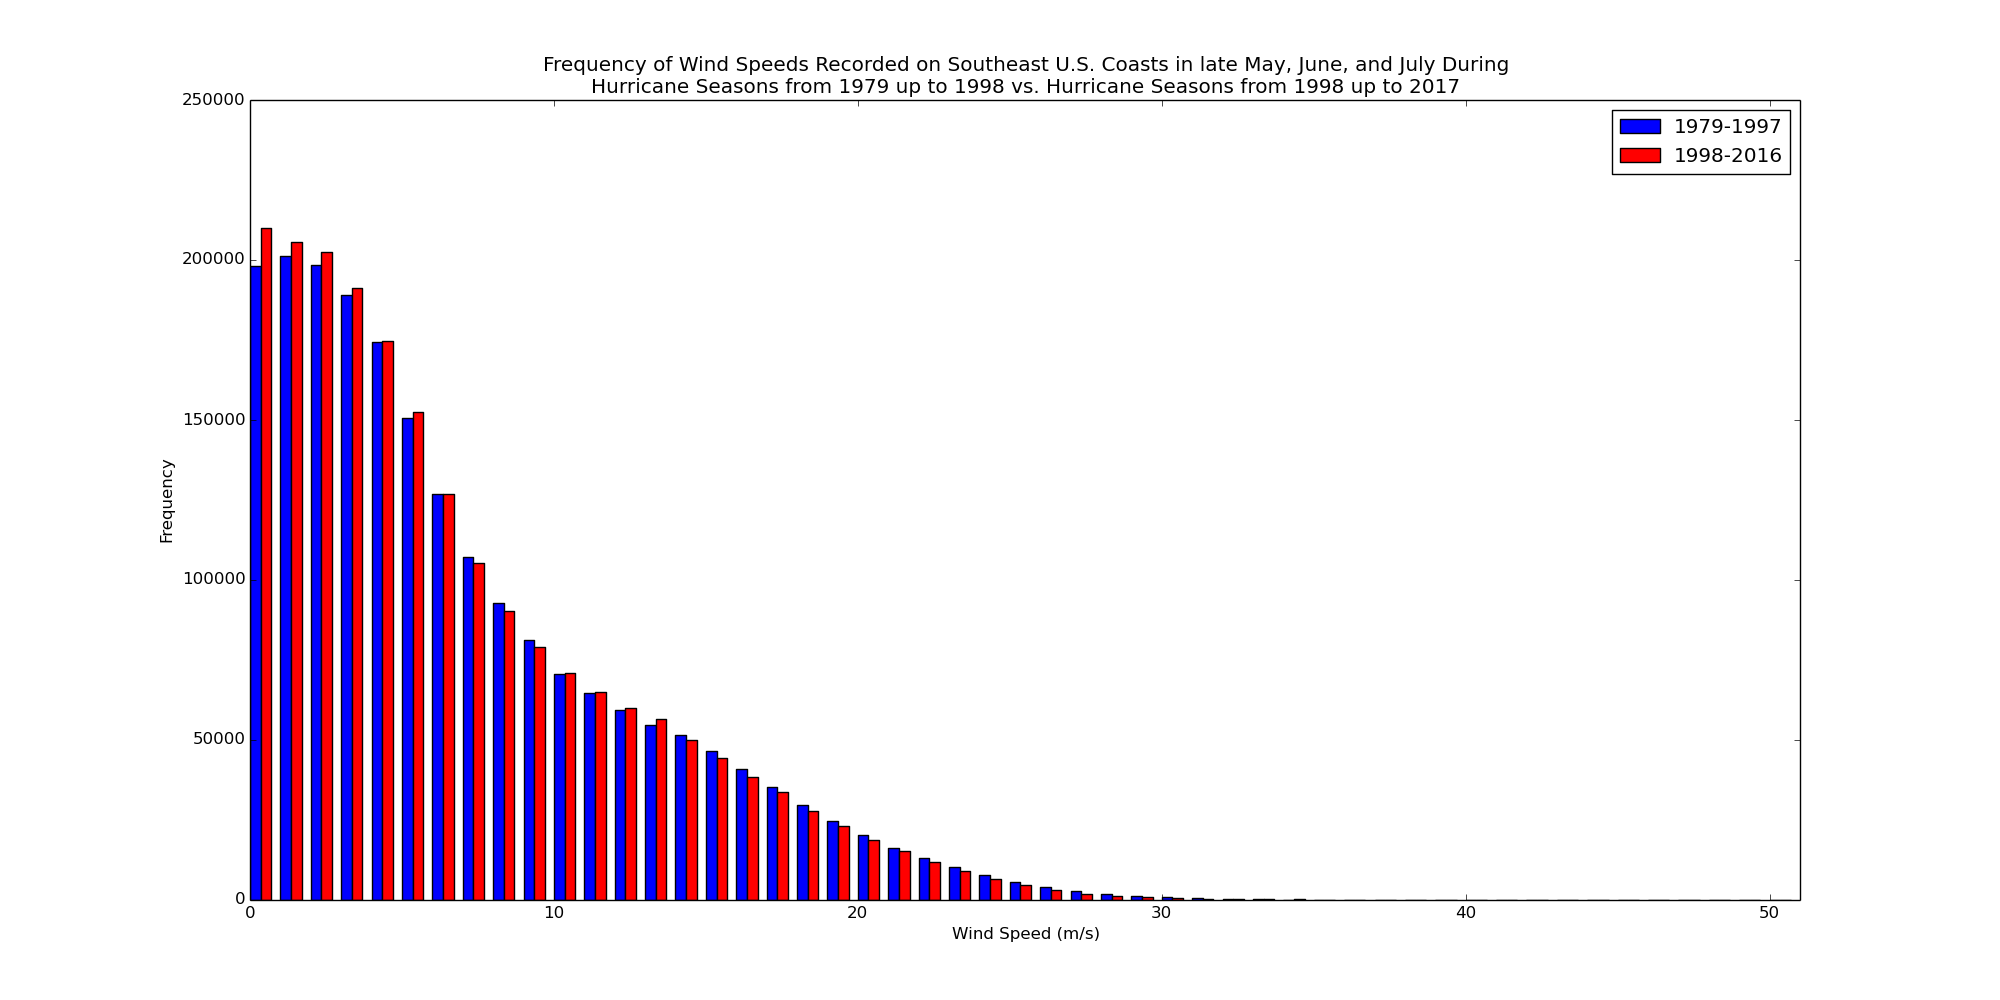
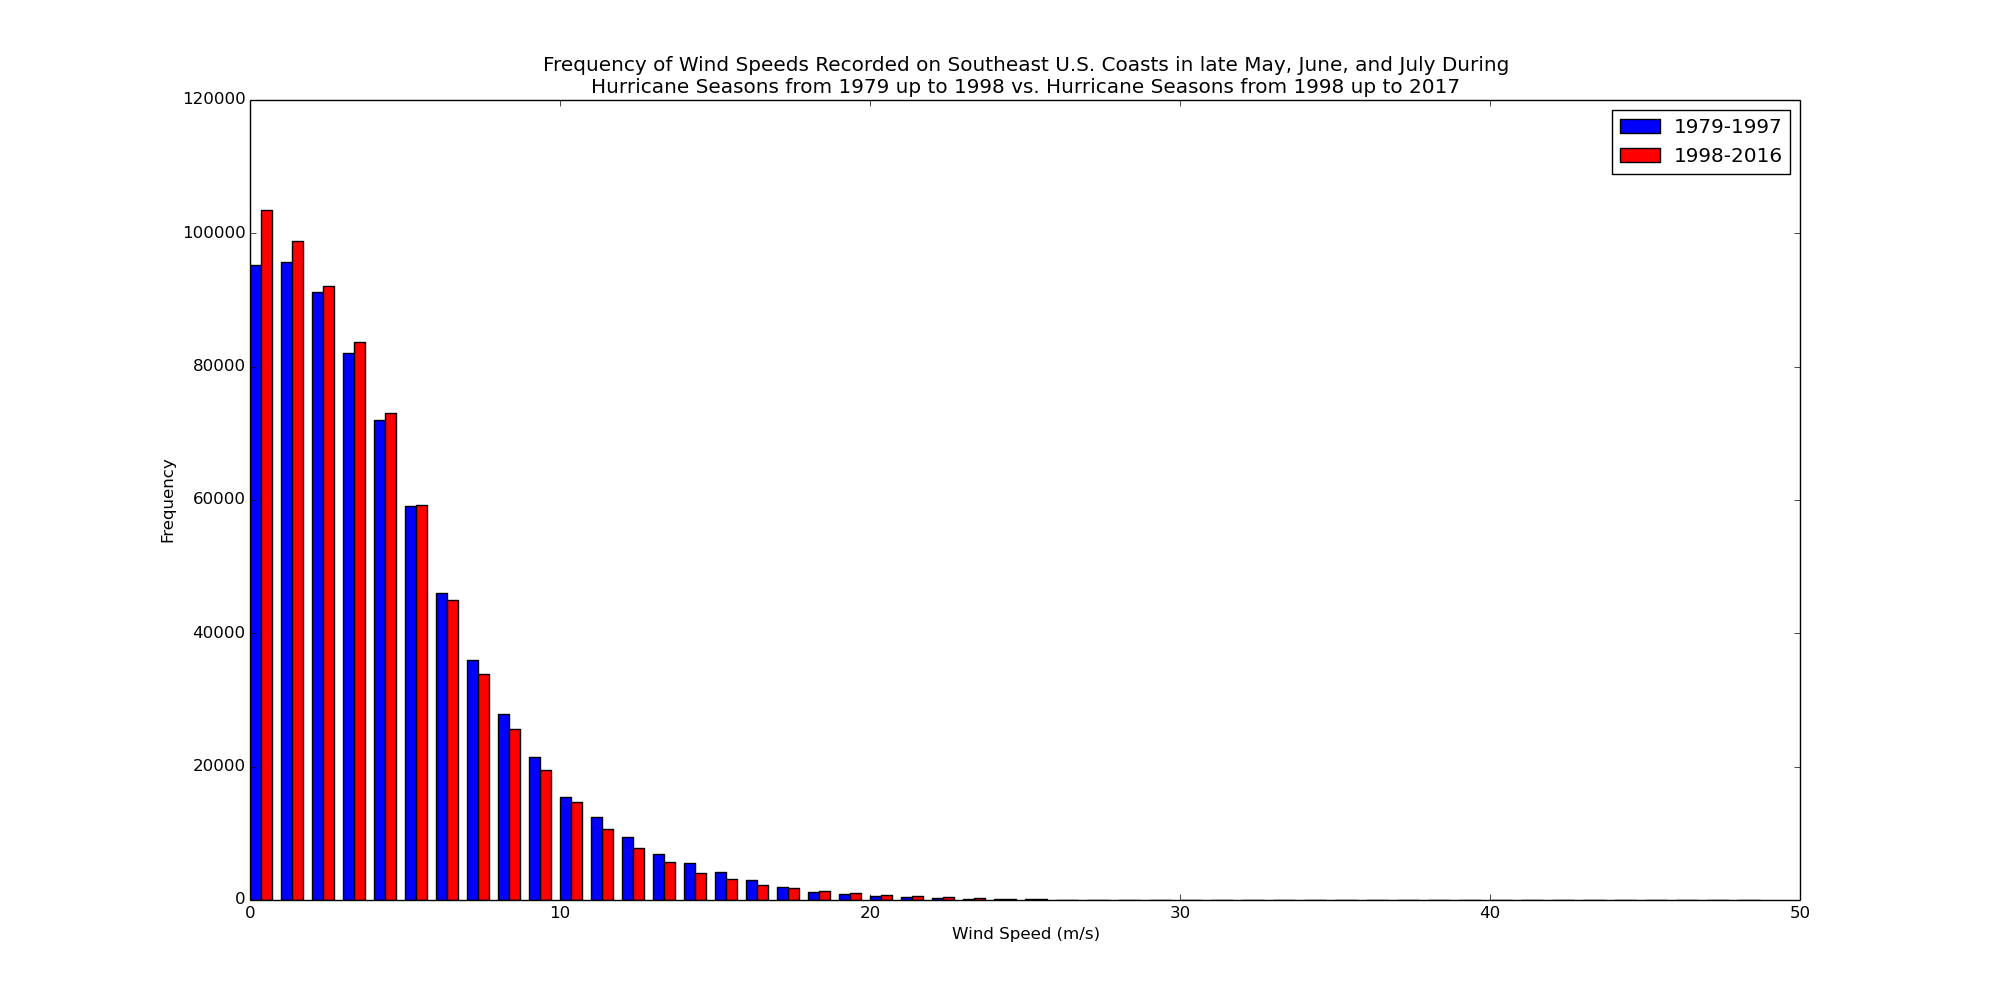
Fixed critical data analysis error

diff --git a/DLM_stats.py b/DLM_stats.py
@@ -184,6 +184,10 @@ def divideBySeason(wind_speeds):
 # Currently defining stagnant steering flow to be 2 m/s
 stagnant_flow = 2
 
+# Dictionary to match abbreviations to names
+location_names = {}
+location_names['AL'] = ["All Locations"]
+
 # Load data
 data = np.load(sys.argv[1])
 
@@ -197,18 +201,27 @@ dates_and_times = convertToDatetime(measurement_times)
 
 # Get rid of data points that are not along the U.S. coast or north of Cape Hatteras
 temp_locs = []
-for loc in locs:
+temp_wind_speeds = []
+i = 0
+while i < len(locs):
     # Get rid of points north or east of North Carolina, west of Corpus Christi, and
     # south of Key West
-    if loc[0] > -98 and loc[0] <= -75 and loc[1] > 24 and loc[1] <= 36:
+    if locs[i][0] > -98 and locs[i][0] <= -75 and locs[i][1] > 24 and locs[i][1] <= 36:
         # Also get rid of points along Mexican Coast and around The Bahamas
-        if not (loc[0] < -96 and loc[1] < 26) and not (loc[0] > -79 and loc[1] < 30):
-            temp_locs.append(loc)
+        if not (locs[i][0] < -96 and locs[i][1] < 26) and not (locs[i][0] > -79 and locs[i][1] < 30):
+            temp_locs.append(locs[i])
+            temp_wind_speeds.append(wind_speeds[i])
+    i = i + 1
 
 locs = temp_locs
+wind_speeds = temp_wind_speeds
+
+print(len(locs))
+print(len(wind_speeds))
 
 # Determine the maximum wind speed recorded (direction doesn't matter)
 max_wind_speed = max(np.amax(wind_speeds), abs(np.amin(wind_speeds)))
+print(max_wind_speed)
 
 ######################################################################################
 ##                         All Locations, Whole Time Period                         ##
@@ -232,7 +245,8 @@ getFrequencies(wind_speeds_79_16, wind_speed_freq_all)
 # measured locations from 1979 to 2017
 plt.figure(1, figsize = (20,10))
 plt.bar(np.arange(len(wind_speed_freq_all)), wind_speed_freq_all)
-plt.xlim(xmax=51)
+plt.xlim(xmax = 50)
+plt.ylim(ymax = 500000)
 plt.ylabel('Frequency')
 plt.xlabel('Wind Speed (m/s)')
 plt.title('Frequency of Wind Speeds Recorded on Southeast U.S. Coasts During ' +
@@ -263,7 +277,7 @@ getFrequencies(wind_speeds_79_16_LHS, wind_speed_freq_all_LHS)
 # measured locations for each of the three parts of the hurricane season from 1979 to 2017
 plt.figure(1, figsize = (20,10))
 plt.bar(np.arange(len(wind_speed_freq_all_MHS)), wind_speed_freq_all_EHS)
-plt.xlim(xmax=51)
+plt.xlim(xmax = 50)
 plt.ylabel('Frequency')
 plt.xlabel('Wind Speed (m/s)')
 plt.title('Frequency of Wind Speeds Recorded on Southeast U.S. Coasts During ' +
@@ -273,7 +287,7 @@ plt.show()
 
 plt.figure(1, figsize = (20,10))
 plt.bar(np.arange(len(wind_speed_freq_all_MHS)), wind_speed_freq_all_MHS)
-plt.xlim(xmax=51)
+plt.xlim(xmax = 50)
 plt.ylabel('Frequency')
 plt.xlabel('Wind Speed (m/s)')
 plt.title('Frequency of Wind Speeds Recorded on Southeast U.S. Coasts During ' +
@@ -283,7 +297,7 @@ plt.show()
 
 plt.figure(1, figsize = (20,10))
 plt.bar(np.arange(len(wind_speed_freq_all_LHS)), wind_speed_freq_all_LHS)
-plt.xlim(xmax=51)
+plt.xlim(xmax = 50)
 plt.ylabel('Frequency')
 plt.xlabel('Wind Speed (m/s)')
 plt.title('Frequency of Wind Speeds Recorded on Southeast U.S. Coasts During ' +
@@ -297,10 +311,6 @@ plt.show()
 
 # Split the data into two time periods: One from 1979 up to 1998, and the other from 1998
 # up to 2017
-
-#print(len(dates_and_times))
-#print(dates_and_times[13907])
-#print(dates_and_times[27815])
 
 # Create arrays to store how frequently a wind speed value was recorded (at all locations
 # for each time period. The zeroeth index of the array will store the frequency of recorded
@@ -322,8 +332,8 @@ getFrequencies(wind_speeds_98_16, wind_speed_freq_98_16)
 plt.figure(1, figsize = (20,10))
 plt.subplot(211)
 plt.bar(np.arange(len(wind_speed_freq_79_97)), wind_speed_freq_79_97)
-plt.xlim(xmax=51)
-plt.ylim(ymax=550000)
+plt.xlim(xmax = 50)
+plt.ylim(ymax = 550000)
 plt.ylabel('Frequency')
 plt.xlabel('Wind Speed (m/s)')
 plt.title('Frequency of Wind Speeds Recorded on Southeast U.S. Coasts During ' +
@@ -331,8 +341,8 @@ plt.title('Frequency of Wind Speeds Recorded on Southeast U.S. Coasts During ' +
 
 plt.subplot(212)
 plt.bar(np.arange(len(wind_speed_freq_98_16)), wind_speed_freq_98_16)
-plt.xlim(xmax=51)
-plt.ylim(ymax=550000)
+plt.xlim(xmax = 50)
+plt.ylim(ymax = 550000)
 plt.ylabel('Frequency')
 plt.xlabel('Wind Speed (m/s)')
 plt.title('Frequency of Wind Speeds Recorded on Southeast U.S. Coasts During ' +
@@ -351,7 +361,7 @@ ax.bar(np.arange(len(wind_speed_freq_79_97)), wind_speed_freq_79_97, bar_width,
 ax.bar(np.arange(len(wind_speed_freq_98_16)) + bar_width, wind_speed_freq_98_16,
                 bar_width, color='r', label='1998-2016')
 
-ax.set_xlim(xmax=51)
+ax.set_xlim(xmax = 50)
 ax.set_xlabel('Wind Speed (m/s)')
 ax.set_ylabel('Frequency')
 ax.set_title('Frequency of Wind Speeds Recorded on Southeast U.S. Coasts During ' +
@@ -373,11 +383,11 @@ while i < len(wind_speed_freq_79_97):
 # the two time periods
 plt.figure(1, figsize = (20,10))
 plt.bar(np.arange(len(wind_speed_freq_diff)), wind_speed_freq_diff)
-plt.xlim(xmax=51)
+plt.xlim(xmax = 50)
 plt.ylabel('Frequency Difference')
 plt.xlabel('Wind Speed (m/s)')
-plt.title('Difference Between Frequency of Wind Speeds Recorded During ' +
-          'Hurricane Seasons\nfrom 1979 up to 1998 and During Hurricane ' +
+plt.title('Difference Between Frequency of Wind Speeds Recorded on Southeast U.S. Coasts ' +
+          'During\nHurricane Seasons from 1979 up to 1998 and During Hurricane ' +
           'Seasons from 1998 up to 2017')
 plt.savefig('Figures/Wind_Speeds_All_Locations_Diff_Between_78-97_and_98-16_Histogram.png')
 plt.show()
@@ -416,7 +426,7 @@ ax.bar(np.arange(len(wind_speed_freq_79_97_EHS)), wind_speed_freq_79_97_EHS, bar
                 color='b', label='1979-1997')
 ax.bar(np.arange(len(wind_speed_freq_98_16_EHS)) + bar_width, wind_speed_freq_98_16_EHS,
                 bar_width, color='r', label='1998-2016')
-ax.set_xlim(xmax=51)
+ax.set_xlim(xmax = 50)
 ax.set_xlabel('Wind Speed (m/s)')
 ax.set_ylabel('Frequency')
 ax.set_title('Frequency of Wind Speeds Recorded on Southeast U.S. Coasts in late May, ' +
@@ -432,7 +442,7 @@ ax.bar(np.arange(len(wind_speed_freq_79_97_MHS)), wind_speed_freq_79_97_MHS, bar
                 color='b', label='1979-1997')
 ax.bar(np.arange(len(wind_speed_freq_98_16_MHS)) + bar_width, wind_speed_freq_98_16_MHS,
                 bar_width, color='r', label='1998-2016')
-ax.set_xlim(xmax=51)
+ax.set_xlim(xmax = 50)
 ax.set_xlabel('Wind Speed (m/s)')
 ax.set_ylabel('Frequency')
 ax.set_title('Frequency of Wind Speeds Recorded on Southeast U.S. Coasts in August ' +
@@ -448,7 +458,7 @@ ax.bar(np.arange(len(wind_speed_freq_79_97_LHS)), wind_speed_freq_79_97_LHS, bar
                 color='b', label='1979-1997')
 ax.bar(np.arange(len(wind_speed_freq_98_16_LHS)) + bar_width, wind_speed_freq_98_16_LHS,
                 bar_width, color='r', label='1998-2016')
-ax.set_xlim(xmax=51)
+ax.set_xlim(xmax = 50)
 ax.set_xlabel('Wind Speed (m/s)')
 ax.set_ylabel('Frequency')
 ax.set_title('Frequency of Wind Speeds Recorded on Southeast U.S. Coasts in October ' +
@@ -482,33 +492,33 @@ while i < len(wind_speed_freq_79_97_LHS):
 # the two time periods for each part of the hurricane season
 plt.figure(1, figsize = (20,10))
 plt.bar(np.arange(len(wind_speed_freq_EHS_diff)), wind_speed_freq_EHS_diff)
-plt.xlim(xmax=51)
+plt.xlim(xmax = 50)
 plt.ylabel('Frequency Difference')
 plt.xlabel('Wind Speed (m/s)')
-plt.title('Difference Between Frequency of Wind Speeds Recorded in Late May, June, and ' +
-          'July During Hurricane Seasons\nfrom 1979 up to 1998 and During Hurricane ' +
+plt.title('Difference Between Frequency of Wind Speeds Recorded on Southeast U.S. coasts in Late ' +
+          'May, June, and July During\nHurricane Seasons from 1979 up to 1998 and During Hurricane ' +
           'Seasons from 1998 up to 2017')
 plt.savefig('Figures/Wind_Speeds_All_Locations_Diff_Between_78-97_and_98-16_EHS_Histogram.png')
 plt.show()
 
 plt.figure(1, figsize = (20,10))
 plt.bar(np.arange(len(wind_speed_freq_MHS_diff)), wind_speed_freq_MHS_diff)
-plt.xlim(xmax=51)
+plt.xlim(xmax = 50)
 plt.ylabel('Frequency Difference')
 plt.xlabel('Wind Speed (m/s)')
-plt.title('Difference Between Frequency of Wind Speeds Recorded in August and September ' +
-          'During Hurricane Seasons\nfrom 1979 up to 1998 and During Hurricane ' +
+plt.title('Difference Between Frequency of Wind Speeds Recorded on Southeast U.S. coasts in August ' +
+          'and September\nDuring Hurricane Seasons from 1979 up to 1998 and During Hurricane ' +
           'Seasons from 1998 up to 2017')
 plt.savefig('Figures/Wind_Speeds_All_Locations_Diff_Between_78-97_and_98-16_MHS_Histogram.png')
 plt.show()
 
 plt.figure(1, figsize = (20,10))
 plt.bar(np.arange(len(wind_speed_freq_LHS_diff)), wind_speed_freq_LHS_diff)
-plt.xlim(xmax=51)
+plt.xlim(xmax = 50)
 plt.ylabel('Frequency Difference')
 plt.xlabel('Wind Speed (m/s)')
-plt.title('Difference Between Frequency of Wind Speeds Recorded in October and November ' +
-          'During Hurricane Seasons\nfrom 1979 up to 1998 and During Hurricane ' +
+plt.title('Difference Between Frequency of Wind Speeds Recorded on Southeast U.S. coasts in October ' +
+          'and November\nDuring Hurricane Seasons from 1979 up to 1998 and During Hurricane ' +
           'Seasons from 1998 up to 2017')
 plt.savefig('Figures/Wind_Speeds_All_Locations_Diff_Between_78-97_and_98-16_LHS_Histogram.png')
 plt.show()
@@ -544,23 +554,23 @@ print('Total Number of Stagnant Flow Measurements Observed at All Locations from
       'up to 1998: ' + str(calcNumStagFlow(wind_speed_freq_79_97, stagnant_flow)))
 print('Total Number of Stagnant Flow Measurements Observed at All Locations from 1998 ' +
       'up to 2017: ' + str(calcNumStagFlow(wind_speed_freq_98_16, stagnant_flow)))
-print('Mean Observed Wind Speed Among All Locations from 1979 up to 2017: ' + 
+print('Mean Observed Wind Speed for All Locations from 1979 up to 2017: ' + 
       str(np.mean(wind_speeds_79_16)) + ' m/s')
-print('Mean Observed Wind Speed Among All Locations from 1979 up to 1998: ' +
+print('Mean Observed Wind Speed for All Locations from 1979 up to 1998: ' +
       str(np.mean(wind_speeds_79_97)) + ' m/s')
-print('Mean Observed Wind Speed Among All Locations from 1998 up to 2017: ' +
+print('Mean Observed Wind Speed for All Locations from 1998 up to 2017: ' +
       str(np.mean(wind_speeds_98_16)) + ' m/s')
-print('Median Observed Wind Speed Among All Locations from 1979 up to 2017: ' +
+print('Median Observed Wind Speed for All Locations from 1979 up to 2017: ' +
       str(np.median(wind_speeds_79_16)) + ' m/s')
-print('Median Observed Wind Speed Among All Locations from 1979 up to 1998: ' +
+print('Median Observed Wind Speed for All Locations from 1979 up to 1998: ' +
       str(np.median(wind_speeds_79_97)) + ' m/s')
-print('Median Observed Wind Speed Among All Locations from 1998 up to 2017: ' +
+print('Median Observed Wind Speed for All Locations from 1998 up to 2017: ' +
       str(np.median(wind_speeds_98_16)) + ' m/s')
-print('Standard Deviation of Observed Wind Speed Among All Locations from 1979 up to ' +
+print('Standard Deviation of Observed Wind Speed for All Locations from 1979 up to ' +
       '2017: ' + str(np.std(wind_speeds_79_16)) + ' m/s')
-print('Standard Deviation of Observed Wind Speed Among All Locations from 1979 up to ' +
+print('Standard Deviation of Observed Wind Speed for All Locations from 1979 up to ' +
       '1998: ' + str(np.std(wind_speeds_79_97)) + ' m/s')
-print('Standard Deviation of Observed Wind Speed Among All Locations from 1998 up to ' +
+print('Standard Deviation of Observed Wind Speed for All Locations from 1998 up to ' +
       '2017: ' + str(np.std(wind_speeds_98_16)) + ' m/s\n')
 
 print('Total Number of Stagnant Flow Measurements Observed in Late May, June, and July ' +
@@ -569,23 +579,23 @@ print('Total Number of Stagnant Flow Measurements Observed in Late May, June, an
       'at All Locations from 1979 up to 1998: ' + str(calcNumStagFlow(wind_speed_freq_79_97_EHS, stagnant_flow)))
 print('Total Number of Stagnant Flow Measurements Observed in Late May, June, and July ' +
       'at All Locations from 1998 up to 2017: ' + str(calcNumStagFlow(wind_speed_freq_98_16_EHS, stagnant_flow)))
-print('Mean Observed Wind Speed Among All Locations in Late May, June, and July from 1979 up to 2017: ' +
+print('Mean Observed Wind Speed for All Locations in Late May, June, and July from 1979 up to 2017: ' +
       str(np.mean(wind_speeds_79_16_EHS)) + ' m/s')
-print('Mean Observed Wind Speed Among All Locations in Late May, June, and July from 1979 up to 1998: ' +
+print('Mean Observed Wind Speed for All Locations in Late May, June, and July from 1979 up to 1998: ' +
       str(np.mean(wind_speeds_79_97_EHS)) + ' m/s')
-print('Mean Observed Wind Speed Among All Locations in Late May, June, and July from 1998 up to 2017: ' +
+print('Mean Observed Wind Speed for All Locations in Late May, June, and July from 1998 up to 2017: ' +
       str(np.mean(wind_speeds_98_16_EHS)) + ' m/s')
-print('Median Observed Wind Speed Among All Locations in Late May, June, and July from 1979 up to 2017: ' +
+print('Median Observed Wind Speed for All Locations in Late May, June, and July from 1979 up to 2017: ' +
       str(np.median(wind_speeds_79_16_EHS)) + ' m/s')
-print('Median Observed Wind Speed Among All Locations in Late May, June, and July from 1979 up to 1998: ' +
+print('Median Observed Wind Speed for All Locations in Late May, June, and July from 1979 up to 1998: ' +
       str(np.median(wind_speeds_79_97_EHS)) + ' m/s')
-print('Median Observed Wind Speed Among All Locations in Late May, June, and July from 1998 up to 2017: ' +
+print('Median Observed Wind Speed for All Locations in Late May, June, and July from 1998 up to 2017: ' +
       str(np.median(wind_speeds_98_16_EHS)) + ' m/s')
-print('Standard Deviation of Observed Wind Speed Among All Locations in Late May, June, and July ' +
+print('Standard Deviation of Observed Wind Speed for All Locations in Late May, June, and July ' +
       'from 1979 up to 2017: ' + str(np.std(wind_speeds_79_16_EHS)) + ' m/s')
-print('Standard Deviation of Observed Wind Speed Among All Locations in Late May, June, and July ' +
+print('Standard Deviation of Observed Wind Speed for All Locations in Late May, June, and July ' +
       'from 1979 up to 1998: ' + str(np.std(wind_speeds_79_97_EHS)) + ' m/s')
-print('Standard Deviation of Observed Wind Speed Among All Locations in Late May, June, and July ' +
+print('Standard Deviation of Observed Wind Speed for All Locations in Late May, June, and July ' +
       'from 1998 up to 2017: ' + str(np.std(wind_speeds_98_16_EHS)) + ' m/s\n')
 
 print('Total Number of Stagnant Flow Measurements Observed in August and September ' +
@@ -594,23 +604,23 @@ print('Total Number of Stagnant Flow Measurements Observed in August and Septemb
       'at All Locations from 1979 up to 1998: ' + str(calcNumStagFlow(wind_speed_freq_79_97_MHS, stagnant_flow)))
 print('Total Number of Stagnant Flow Measurements Observed in August and September ' +
       'at All Locations from 1998 up to 2017: ' + str(calcNumStagFlow(wind_speed_freq_98_16_MHS, stagnant_flow)))
-print('Mean Observed Wind Speed Among All Locations in August and September from 1979 up to 2017: ' +
+print('Mean Observed Wind Speed for All Locations in August and September from 1979 up to 2017: ' +
       str(np.mean(wind_speeds_79_16_MHS)) + ' m/s')
-print('Mean Observed Wind Speed Among All Locations in August and September from 1979 up to 1998: ' +
+print('Mean Observed Wind Speed for All Locations in August and September from 1979 up to 1998: ' +
       str(np.mean(wind_speeds_79_97_MHS)) + ' m/s')
-print('Mean Observed Wind Speed Among All Locations in August and September from 1998 up to 2017: ' +
+print('Mean Observed Wind Speed for All Locations in August and September from 1998 up to 2017: ' +
       str(np.mean(wind_speeds_98_16_MHS)) + ' m/s')
-print('Median Observed Wind Speed Among All Locations in August and September from 1979 up to 2017: ' +
+print('Median Observed Wind Speed for All Locations in August and September from 1979 up to 2017: ' +
       str(np.median(wind_speeds_79_16_MHS)) + ' m/s')
-print('Median Observed Wind Speed Among All Locations in August and September from 1979 up to 1998: ' +
+print('Median Observed Wind Speed for All Locations in August and September from 1979 up to 1998: ' +
       str(np.median(wind_speeds_79_97_MHS)) + ' m/s')
-print('Median Observed Wind Speed Among All Locations in August and September from 1998 up to 2017: ' +
+print('Median Observed Wind Speed for All Locations in August and September from 1998 up to 2017: ' +
       str(np.median(wind_speeds_98_16_MHS)) + ' m/s')
-print('Standard Deviation of Observed Wind Speed Among All Locations in August and September ' +
+print('Standard Deviation of Observed Wind Speed for All Locations in August and September ' +
       'from 1979 up to 2017: ' + str(np.std(wind_speeds_79_16_MHS)) + ' m/s')
-print('Standard Deviation of Observed Wind Speed Among All Locations in August and September ' +
+print('Standard Deviation of Observed Wind Speed for All Locations in August and September ' +
       'from 1979 up to 1998: ' + str(np.std(wind_speeds_79_97_MHS)) + ' m/s')
-print('Standard Deviation of Observed Wind Speed Among All Locations in August and September ' +
+print('Standard Deviation of Observed Wind Speed for All Locations in August and September ' +
       'from 1998 up to 2017: ' + str(np.std(wind_speeds_98_16_MHS)) + ' m/s\n')
 
 print('Total Number of Stagnant Flow Measurements Observed in October and November ' +
@@ -619,21 +629,21 @@ print('Total Number of Stagnant Flow Measurements Observed in October and Novemb
       'at All Locations from 1979 up to 1998: ' + str(calcNumStagFlow(wind_speed_freq_79_97_LHS, stagnant_flow)))
 print('Total Number of Stagnant Flow Measurements Observed in October and November ' +
       'at All Locations from 1998 up to 2017: ' + str(calcNumStagFlow(wind_speed_freq_98_16_LHS, stagnant_flow)))
-print('Mean Observed Wind Speed Among All Locations in October and November from 1979 up to 2017: ' +
+print('Mean Observed Wind Speed for All Locations in October and November from 1979 up to 2017: ' +
       str(np.mean(wind_speeds_79_16_LHS)) + ' m/s')
-print('Mean Observed Wind Speed Among All Locations in October and November from 1979 up to 1998: ' +
+print('Mean Observed Wind Speed for All Locations in October and November from 1979 up to 1998: ' +
       str(np.mean(wind_speeds_79_97_LHS)) + ' m/s')
-print('Mean Observed Wind Speed Among All Locations in October and November from 1998 up to 2017: ' +
+print('Mean Observed Wind Speed for All Locations in October and November from 1998 up to 2017: ' +
       str(np.mean(wind_speeds_98_16_LHS)) + ' m/s')
-print('Median Observed Wind Speed Among All Locations in October and November from 1979 up to 2017: ' +
+print('Median Observed Wind Speed for All Locations in October and November from 1979 up to 2017: ' +
       str(np.median(wind_speeds_79_16_LHS)) + ' m/s')
-print('Median Observed Wind Speed Among All Locations in October and November from 1979 up to 1998: ' +
+print('Median Observed Wind Speed for All Locations in October and November from 1979 up to 1998: ' +
       str(np.median(wind_speeds_79_97_LHS)) + ' m/s')
-print('Median Observed Wind Speed Among All Locations in October and November from 1998 up to 2017: ' +
+print('Median Observed Wind Speed for All Locations in October and November from 1998 up to 2017: ' +
       str(np.median(wind_speeds_98_16_LHS)) + ' m/s')
-print('Standard Deviation of Observed Wind Speed Among All Locations in October and November ' +
+print('Standard Deviation of Observed Wind Speed for All Locations in October and November ' +
       'from 1979 up to 2017: ' + str(np.std(wind_speeds_79_16_LHS)) + ' m/s')
-print('Standard Deviation of Observed Wind Speed Among All Locations in October and November ' +
+print('Standard Deviation of Observed Wind Speed for All Locations in October and November ' +
       'from 1979 up to 1998: ' + str(np.std(wind_speeds_79_97_LHS)) + ' m/s')
-print('Standard Deviation of Observed Wind Speed Among All Locations in October and November ' +
+print('Standard Deviation of Observed Wind Speed for All Locations in October and November ' +
       'from 1998 up to 2017: ' + str(np.std(wind_speeds_98_16_LHS)) + ' m/s\n')
